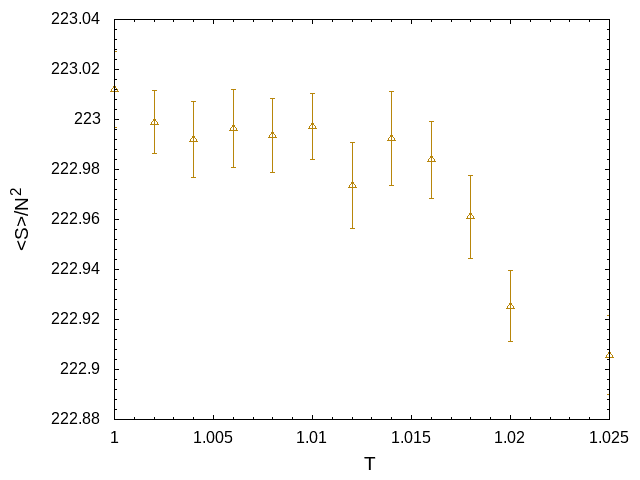
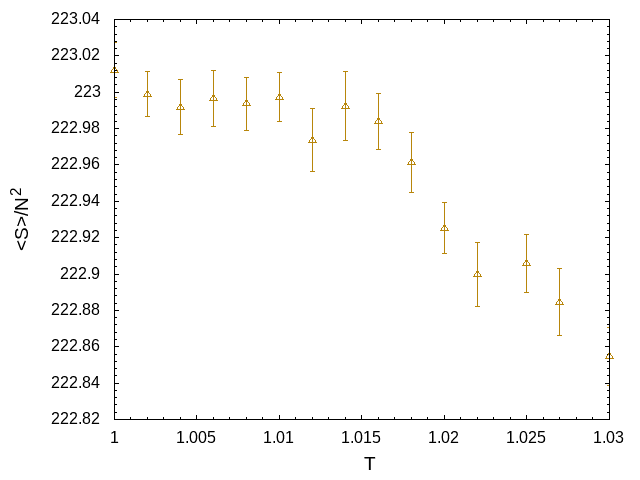
Updated N32 mu 6.0 results

diff --git a/MatrixModels/BMN_Bosonic_Gauged/Nc32_24_mu6.0/t1.022/index.html b/MatrixModels/BMN_Bosonic_Gauged/Nc32_24_mu6.0/t1.022/index.html
@@ -1,0 +1,83 @@
+<html><head>
+<style>
+</style>
+<title>BMN_Bosonic_Gauged/Nc32_24_mu6.0/t1.022</title>
+</head>
+<body>
+<h1>BMN_Bosonic_Gauged/Nc32_24_mu6.0/t1.022</h1>
+  <div>
+    <table>
+      <tr><th>Action </th><th>Energy </th><th>Extent </th><th>SO(3) X SO(6) </th></tr>
+      <tr>
+        <td style="width:440px; height:300px;">
+        <img src="Results/action.png" width=400 height=300 />
+        </td>
+        <td style="width:440px; height:300px;">
+        <img src="Results/energy.png" width=400 height=300 />
+        </td>
+        <td style="width:440px; height:300px;">
+        <img src="Results/extent.png" width=400 height=300 />
+        </td>
+        <td style="width:440px; height:300px;">
+        <img src="Results/so.png" width=400 height=300 />
+        </td>
+      </tr>
+    </table>
+</div>
+  <div>
+    <table>
+      <tr><th>Gauge Force </th><th>Myers </th><th>Polyakov Loop </th><th>Polyakov Loop Scatter Plot </th></tr>
+      <tr>
+        <td style="width:440px; height:300px;">
+        <img src="Results/forces.png" width=400 height=300 />
+        </td>
+        <td style="width:440px; height:300px;">
+        <img src="Results/myers.png" width=400 height=300 />
+        </td>
+        <td style="width:440px; height:300px;">
+        <img src="Results/poly_mod.png" width=400 height=300 />
+        </td>
+        <td style="width:440px; height:300px;">
+        <img src="Results/poly.png" width=400 height=300 />
+        </td>
+      </tr>
+    </table>
+</div>
+ <div>
+    <table>
+      <tr><th>delta S </th><th>exp (- delta S) </th><th>|deta S| </th><th>Steps per Trajec </th></tr>
+      <tr>
+        <td style="width:440px; height:300px;">
+        <img src="Results/del.png" width=400 height=300 />
+        </td>
+        <td style="width:440px; height:300px;">
+        <img src="Results/exp_del.png" width=400 height=300 />
+        </td>
+        <td style="width:440px; height:300px;">
+        <img src="Results/mod_del.png" width=400 height=300 />
+        </td>
+        <td style="width:440px; height:300px;">
+        <img src="Results/nstep.png" width=400 height=300 />
+        </td>
+      </tr>
+    </table>
+</div>
+ <div>
+    <table>
+      <tr><th></th><th>Trajectory Length </th><th>HMC Acceptance Rate </th><th></th></tr>
+      <tr>
+      <td style="width:440px; height:300px;">
+      </td>
+        <td style="width:440px; height:300px;">
+        <img src="Results/traj.png" width=400 height=300 />
+        </td>
+        <td style="width:440px; height:300px;">
+        <img src="Results/rate.png" width=400 height=300 />
+        </td>
+        <td style="width:440px; height:300px;">
+      </td>
+      </tr>
+    </table>
+</div>
+</body>
+</html>

diff --git a/MatrixModels/BMN_Bosonic_Gauged/Nc32_24_mu6.0/t1.027/index.html b/MatrixModels/BMN_Bosonic_Gauged/Nc32_24_mu6.0/t1.027/index.html
@@ -1,0 +1,83 @@
+<html><head>
+<style>
+</style>
+<title>BMN_Bosonic_Gauged/Nc32_24_mu6.0/t1.027</title>
+</head>
+<body>
+<h1>BMN_Bosonic_Gauged/Nc32_24_mu6.0/t1.027</h1>
+  <div>
+    <table>
+      <tr><th>Action </th><th>Energy </th><th>Extent </th><th>SO(3) X SO(6) </th></tr>
+      <tr>
+        <td style="width:440px; height:300px;">
+        <img src="Results/action.png" width=400 height=300 />
+        </td>
+        <td style="width:440px; height:300px;">
+        <img src="Results/energy.png" width=400 height=300 />
+        </td>
+        <td style="width:440px; height:300px;">
+        <img src="Results/extent.png" width=400 height=300 />
+        </td>
+        <td style="width:440px; height:300px;">
+        <img src="Results/so.png" width=400 height=300 />
+        </td>
+      </tr>
+    </table>
+</div>
+  <div>
+    <table>
+      <tr><th>Gauge Force </th><th>Myers </th><th>Polyakov Loop </th><th>Polyakov Loop Scatter Plot </th></tr>
+      <tr>
+        <td style="width:440px; height:300px;">
+        <img src="Results/forces.png" width=400 height=300 />
+        </td>
+        <td style="width:440px; height:300px;">
+        <img src="Results/myers.png" width=400 height=300 />
+        </td>
+        <td style="width:440px; height:300px;">
+        <img src="Results/poly_mod.png" width=400 height=300 />
+        </td>
+        <td style="width:440px; height:300px;">
+        <img src="Results/poly.png" width=400 height=300 />
+        </td>
+      </tr>
+    </table>
+</div>
+ <div>
+    <table>
+      <tr><th>delta S </th><th>exp (- delta S) </th><th>|deta S| </th><th>Steps per Trajec </th></tr>
+      <tr>
+        <td style="width:440px; height:300px;">
+        <img src="Results/del.png" width=400 height=300 />
+        </td>
+        <td style="width:440px; height:300px;">
+        <img src="Results/exp_del.png" width=400 height=300 />
+        </td>
+        <td style="width:440px; height:300px;">
+        <img src="Results/mod_del.png" width=400 height=300 />
+        </td>
+        <td style="width:440px; height:300px;">
+        <img src="Results/nstep.png" width=400 height=300 />
+        </td>
+      </tr>
+    </table>
+</div>
+ <div>
+    <table>
+      <tr><th></th><th>Trajectory Length </th><th>HMC Acceptance Rate </th><th></th></tr>
+      <tr>
+      <td style="width:440px; height:300px;">
+      </td>
+        <td style="width:440px; height:300px;">
+        <img src="Results/traj.png" width=400 height=300 />
+        </td>
+        <td style="width:440px; height:300px;">
+        <img src="Results/rate.png" width=400 height=300 />
+        </td>
+        <td style="width:440px; height:300px;">
+      </td>
+      </tr>
+    </table>
+</div>
+</body>
+</html>

diff --git a/MatrixModels/BMN_Bosonic_Gauged/Nc32_24_mu6.0/t1.03/index.html b/MatrixModels/BMN_Bosonic_Gauged/Nc32_24_mu6.0/t1.03/index.html
@@ -1,0 +1,83 @@
+<html><head>
+<style>
+</style>
+<title>BMN_Bosonic_Gauged/Nc32_24_mu6.0/t1.03</title>
+</head>
+<body>
+<h1>BMN_Bosonic_Gauged/Nc32_24_mu6.0/t1.03</h1>
+  <div>
+    <table>
+      <tr><th>Action </th><th>Energy </th><th>Extent </th><th>SO(3) X SO(6) </th></tr>
+      <tr>
+        <td style="width:440px; height:300px;">
+        <img src="Results/action.png" width=400 height=300 />
+        </td>
+        <td style="width:440px; height:300px;">
+        <img src="Results/energy.png" width=400 height=300 />
+        </td>
+        <td style="width:440px; height:300px;">
+        <img src="Results/extent.png" width=400 height=300 />
+        </td>
+        <td style="width:440px; height:300px;">
+        <img src="Results/so.png" width=400 height=300 />
+        </td>
+      </tr>
+    </table>
+</div>
+  <div>
+    <table>
+      <tr><th>Gauge Force </th><th>Myers </th><th>Polyakov Loop </th><th>Polyakov Loop Scatter Plot </th></tr>
+      <tr>
+        <td style="width:440px; height:300px;">
+        <img src="Results/forces.png" width=400 height=300 />
+        </td>
+        <td style="width:440px; height:300px;">
+        <img src="Results/myers.png" width=400 height=300 />
+        </td>
+        <td style="width:440px; height:300px;">
+        <img src="Results/poly_mod.png" width=400 height=300 />
+        </td>
+        <td style="width:440px; height:300px;">
+        <img src="Results/poly.png" width=400 height=300 />
+        </td>
+      </tr>
+    </table>
+</div>
+ <div>
+    <table>
+      <tr><th>delta S </th><th>exp (- delta S) </th><th>|deta S| </th><th>Steps per Trajec </th></tr>
+      <tr>
+        <td style="width:440px; height:300px;">
+        <img src="Results/del.png" width=400 height=300 />
+        </td>
+        <td style="width:440px; height:300px;">
+        <img src="Results/exp_del.png" width=400 height=300 />
+        </td>
+        <td style="width:440px; height:300px;">
+        <img src="Results/mod_del.png" width=400 height=300 />
+        </td>
+        <td style="width:440px; height:300px;">
+        <img src="Results/nstep.png" width=400 height=300 />
+        </td>
+      </tr>
+    </table>
+</div>
+ <div>
+    <table>
+      <tr><th></th><th>Trajectory Length </th><th>HMC Acceptance Rate </th><th></th></tr>
+      <tr>
+      <td style="width:440px; height:300px;">
+      </td>
+        <td style="width:440px; height:300px;">
+        <img src="Results/traj.png" width=400 height=300 />
+        </td>
+        <td style="width:440px; height:300px;">
+        <img src="Results/rate.png" width=400 height=300 />
+        </td>
+        <td style="width:440px; height:300px;">
+      </td>
+      </tr>
+    </table>
+</div>
+</body>
+</html>

diff --git a/MatrixModels/BMN_Bosonic_Gauged/index.html b/MatrixModels/BMN_Bosonic_Gauged/index.html
@@ -11,7 +11,7 @@
 
 <tr> 
 <th style="height:100px"><p></p></th>
-<th>Ongoing Runs: $\mu$ 0.5 ($N$ 48), $\mu$ 4.0 ($N$ 32), $\mu$ 6.0 ($N$ 32), $\mu$ 10 ($N$ 16), $\mu$ 21.544 ($N$ 16) , $\mu$ 44.66 ($N$ 16)
+<th>Ongoing Runs: $\mu$ 0.5 ($N$ 48), $\mu$ 4.0 ($N$ 32), $\mu$ 10 ($N$ 16), $\mu$ 21.544 ($N$ 16) , $\mu$ 44.66 ($N$ 16)
 </th>
 <th>
 </th>

diff --git a/MatrixModels/BMN_Bosonic_Gauged/Nc32_24_mu6.0/index.html b/MatrixModels/BMN_Bosonic_Gauged/Nc32_24_mu6.0/index.html
@@ -24,7 +24,10 @@
   </tr>
 <tr>
     <th><br><a href="t1.02/index.html">t1.02</a></th>  
+    <th><br><a href="t1.022/index.html">t1.022</a></th>
     <th><br><a href="t1.025/index.html">t1.025</a></th> 
+    <th><br><a href="t1.027/index.html">t1.027</a></th>
+    <th><br><a href="t1.03/index.html">t1.03</a></th>
   </tr>
 </table>
 <br>
